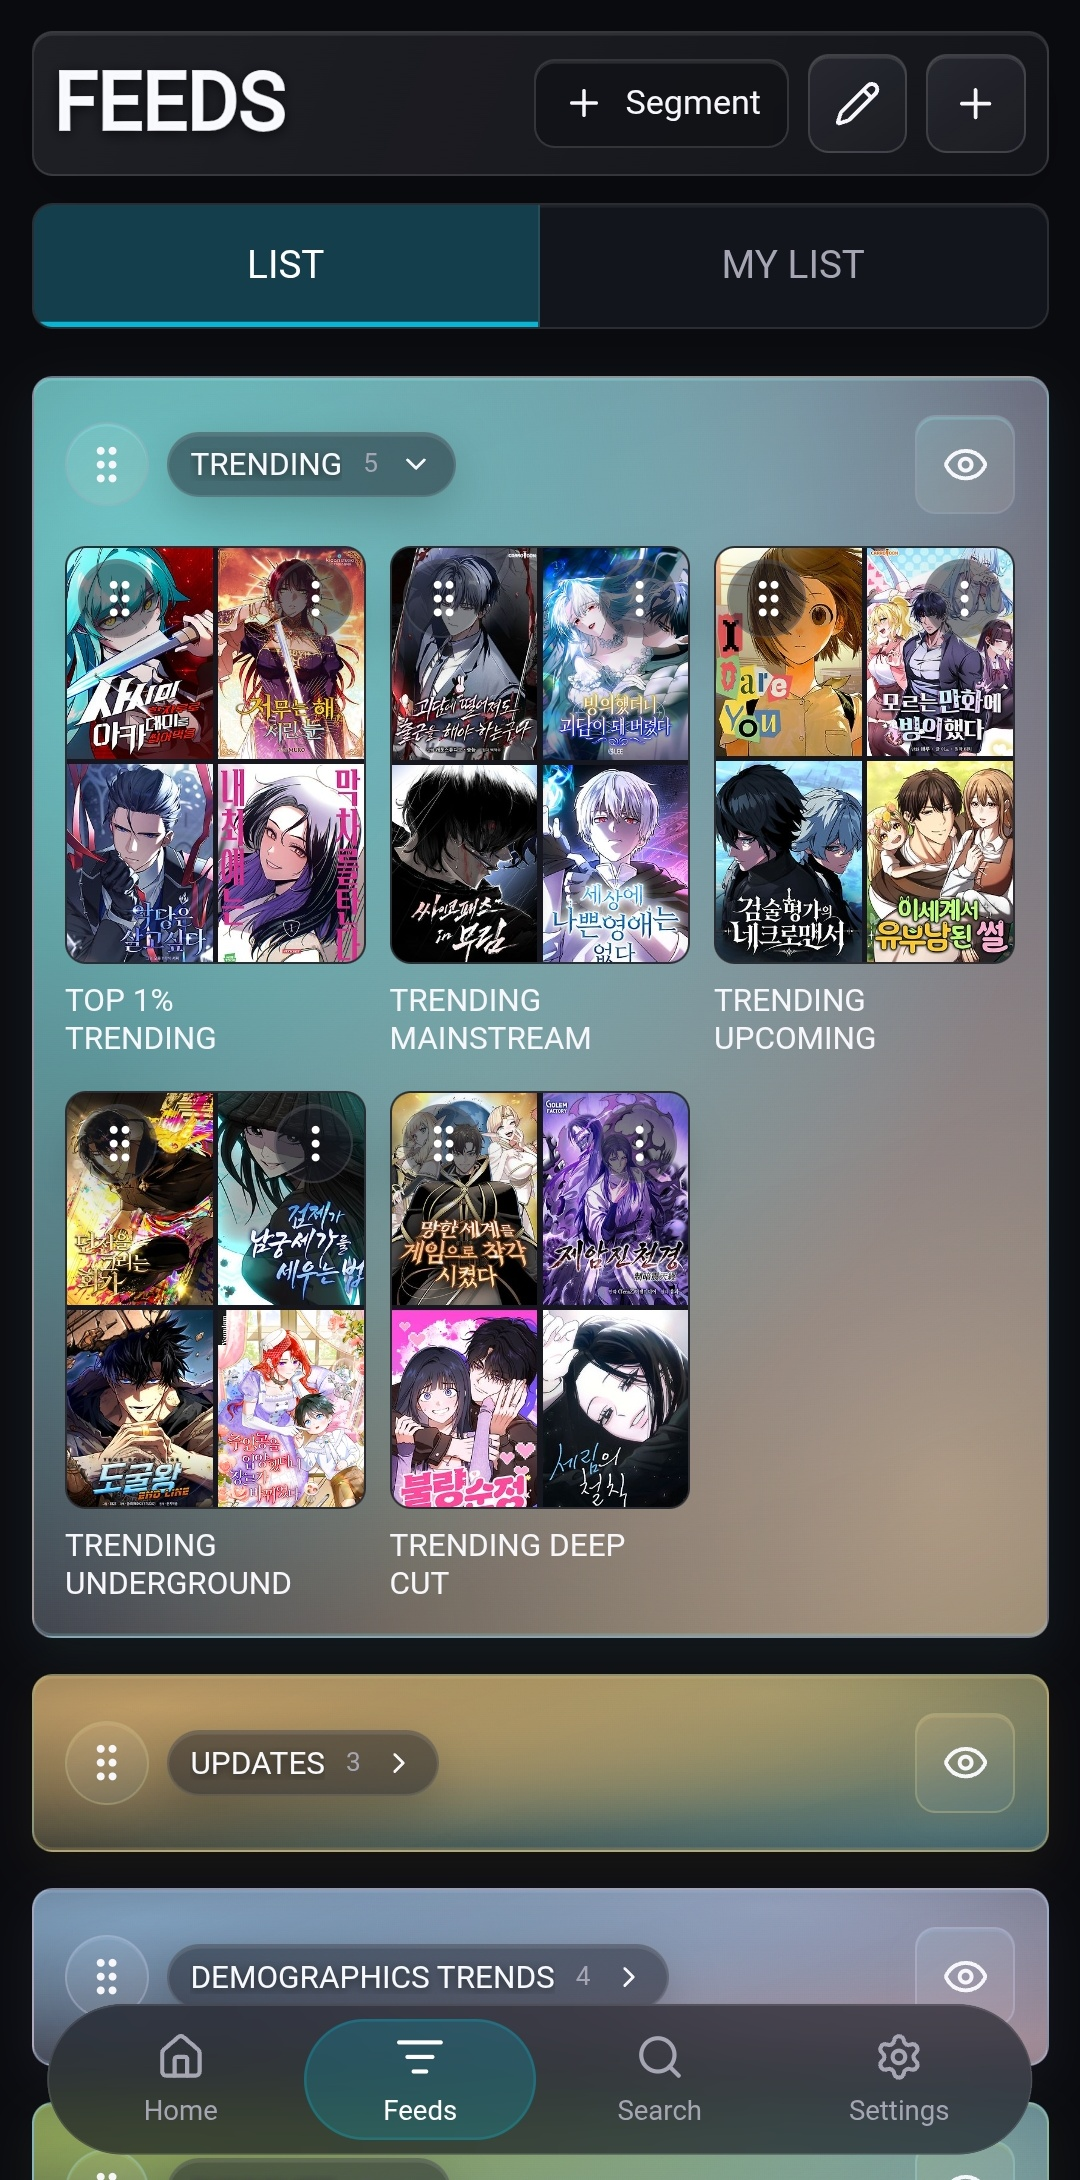
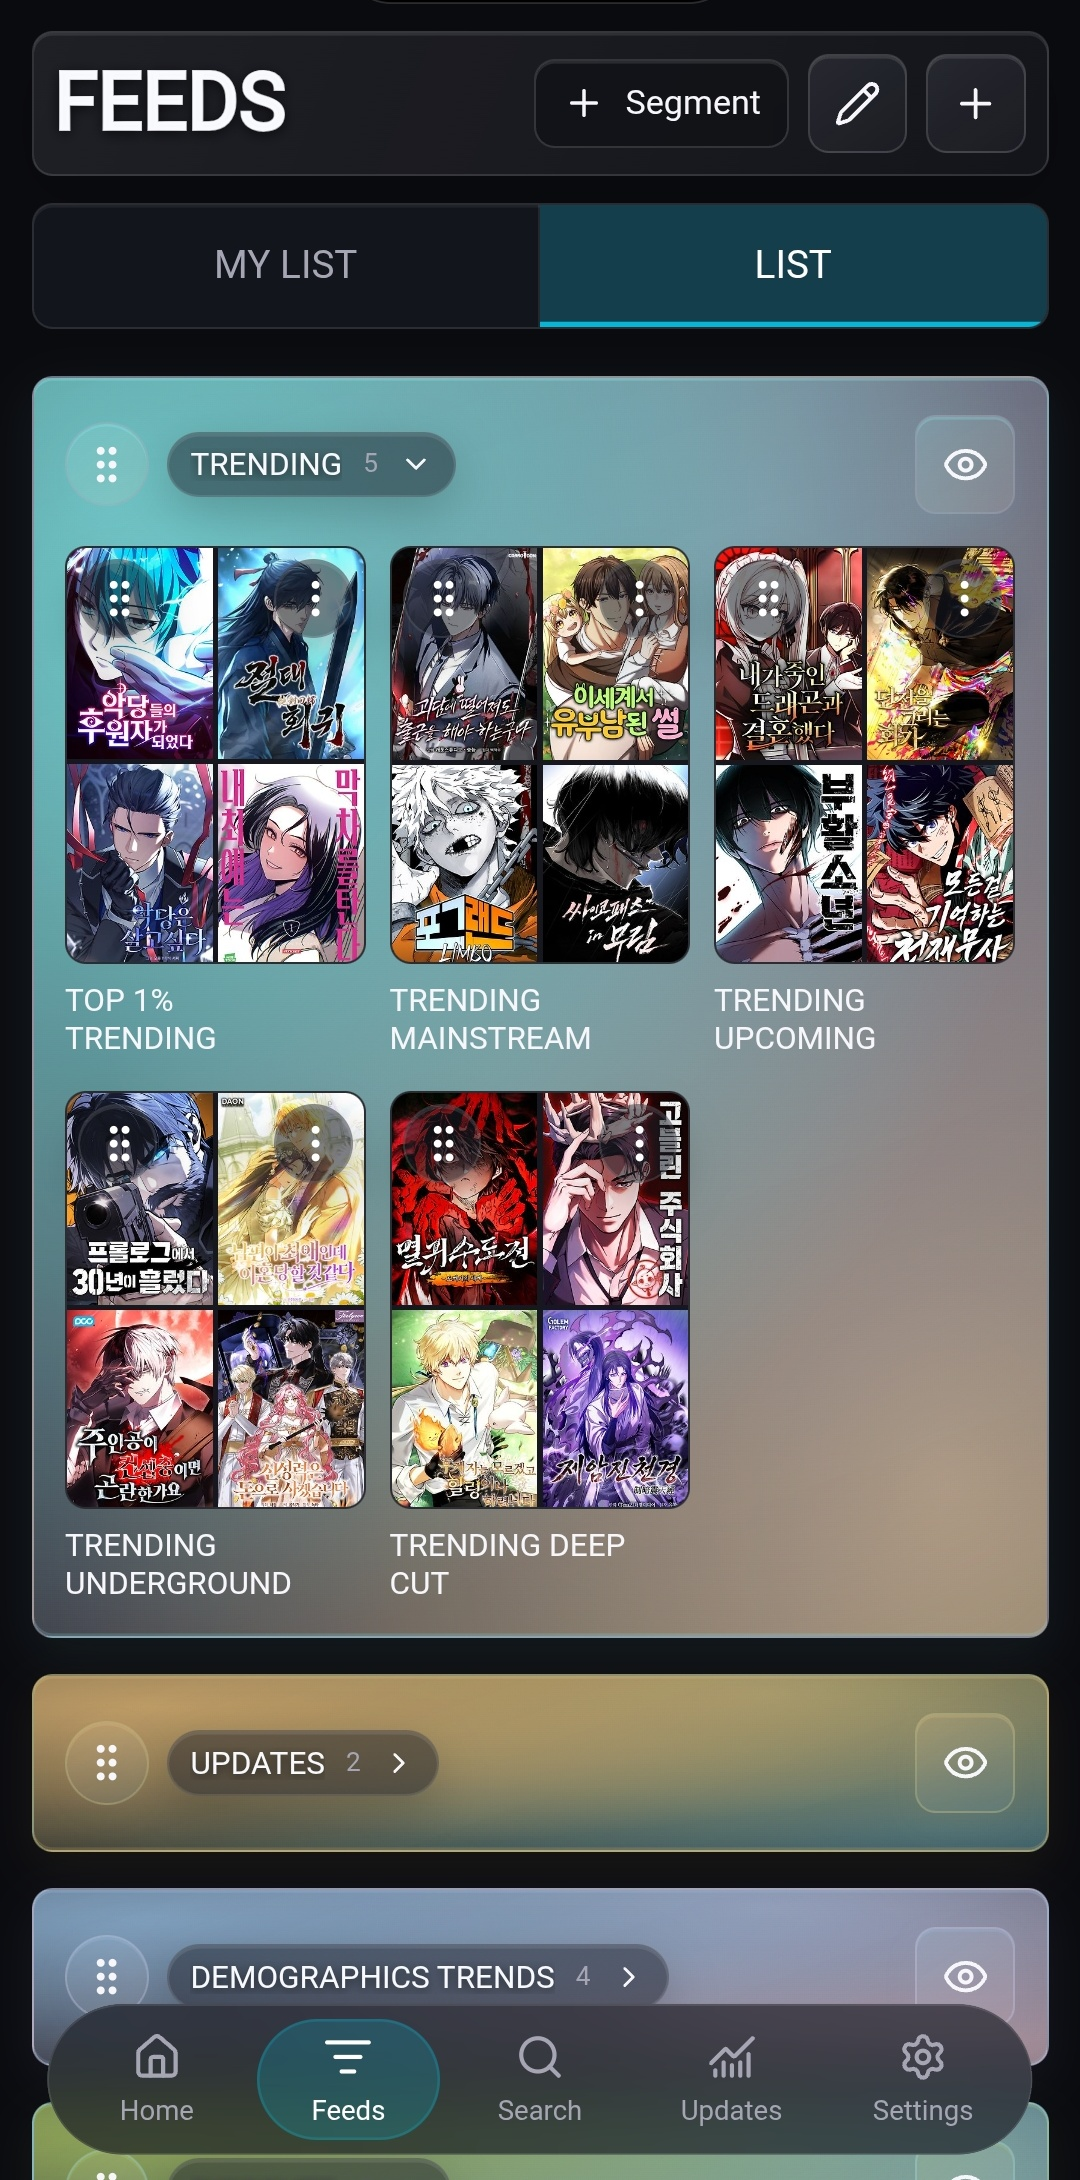
Refresh README screenshots and document Updates

diff --git a/README.md b/README.md
@@ -30,6 +30,7 @@ Aeon organizes a large manhwa catalogue into feeds that can be browsed and custo
 - Organize feeds into reorderable segments and choose which segments appear on Home.
 - Search primary titles, aliases, word fragments in any order, and creator names.
 - Search within a feed while preserving each title's original feed rank.
+- Follow recent popularity milestones, status changes, and chapter updates.
 - View synopses, creators, publication details, chapters, tags, audience statistics, and source links.
 - Share individual feeds by link or JSON, merge imported feeds and segments, and export full backups.
 
@@ -41,6 +42,22 @@ Aeon organizes a large manhwa catalogue into feeds that can be browsed and custo
 
 Both libraries use segments for ordering and Home visibility.
 
+## Updates
+
+Updates records recent catalogue changes in three views:
+
+- **Popularity Milestones** shows titles that have reached Deep Cut, Underground, Upcoming, Mainstream, or Top 1%.
+- **Status Changes** shows moves between Releasing, Hiatus, and Completed.
+- **Chapter Updates** shows recent chapter-count increases.
+
+Tap a card to open its title details. Hold a card to select the title for MY LIST. Double-tap the Updates header to search the page by title.
+
+<p align="center"><img src="./docs/assets/aeon-updates-popularity.jpg" width="320" alt="Aeon popularity milestones"><br>Popularity Milestones</p>
+
+<p align="center"><img src="./docs/assets/aeon-updates-status.jpg" width="320" alt="Aeon status changes"><br>Status Changes</p>
+
+<p align="center"><img src="./docs/assets/aeon-updates-chapters.jpg" width="320" alt="Aeon chapter updates"><br>Chapter Updates</p>
+
 ## Screenshots
 
 <p align="center"><img src="./docs/assets/aeon-library.jpg" width="360" alt="Aeon feed library"><br>Feeds</p>
@@ -48,6 +65,8 @@ Both libraries use segments for ordering and Home visibility.
 <p align="center"><img src="./docs/assets/aeon-search.jpg" width="360" alt="Aeon catalogue search"><br>Search</p>
 
 <p align="center"><img src="./docs/assets/aeon-details.jpg" width="300" alt="Aeon title details"><br>Title details</p>
+
+<p align="center"><img src="./docs/assets/aeon-settings.jpg" width="360" alt="Aeon settings"><br>Settings</p>
 
 ## Fan Rank
 
